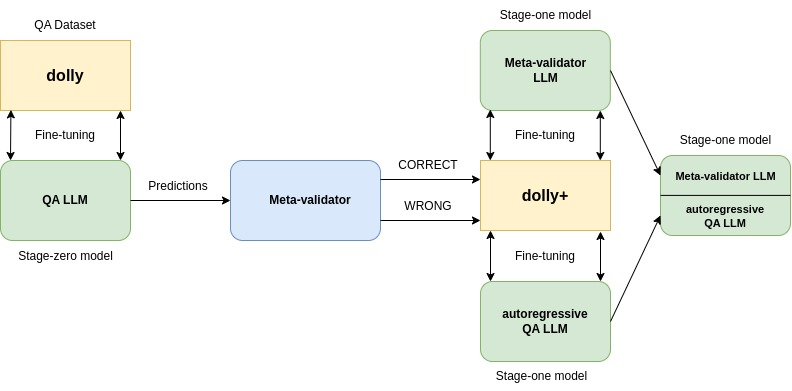
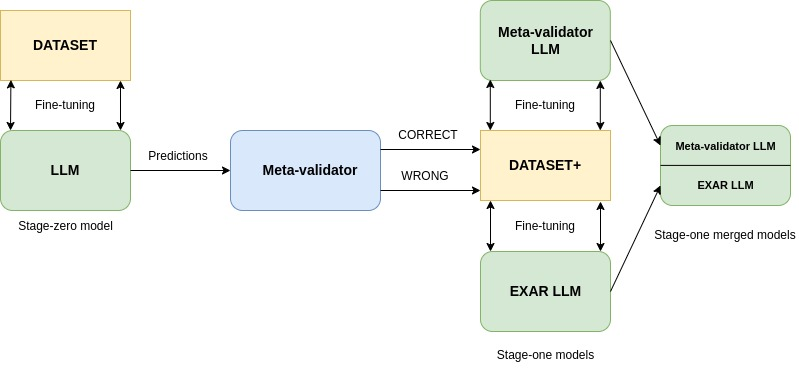
*README rev. + image update

diff --git a/README.md b/README.md
@@ -1,4 +1,4 @@
-# Exclusive-Autoregressive fine-tuning/prompting
+# EXclusive-AutoRegressive (EXAR) fine-tuning/prompting
 
 This is the repository of the Python (3.10+) implementation for the Exclusive-Autoregressive fine-tuning/prompting of LLama-chat.
 
